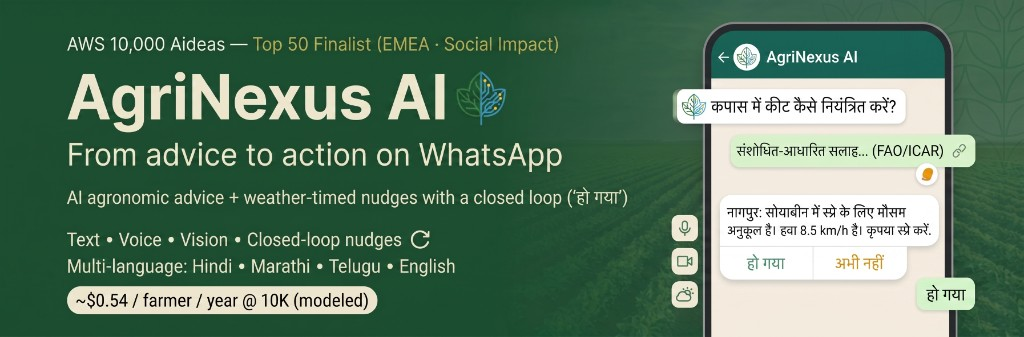
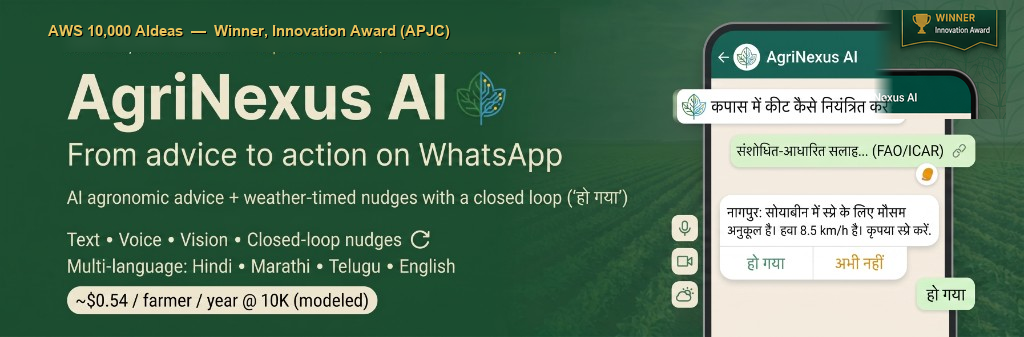
docs: update AWS AIdeas label to Winner, Innovation Award (APJC)
Replace the stale Top 50 Finalist (EMEA · Social Impact) README block and hero banners with the verified winner claim, selection funnel, and official winners links.

Changed region(s): [[0.8438, 0.0297, 1.0, 0.3561], [0.0312, 0.0593, 0.5625, 0.1484]]

diff --git a/README.md b/README.md
@@ -16,7 +16,9 @@
 
 ---
 
-> ### 🏆 AWS Builder 10,000 AIdeas — Top 50 Finalist (EMEA · Social Impact)
+> ### 🏆 AWS Builder 10,000 AIdeas — Winner, Innovation Award (APJC)
+> 
+> One of **20 winners** selected from thousands of submissions across **115 countries**, over four months (December 2025 – April 2026) and four evaluation rounds: 1,000 selected to build → 300 semi-finalists (community voting) → 50 finalists (AWS expert panel) → 20 winners (final community vote + expert review).
 > 
 > **For judges, reviewers, and fellow builders — three fastest paths in:**
 > 
@@ -24,7 +26,9 @@
 > | --- | --- | --- |
 > | 🎥 **Watch the demo** | [youtu.be/Hr9EcblzkwI](https://youtu.be/Hr9EcblzkwI) | 3 min |
 > | 💬 **Try on WhatsApp** | [wa.me/4915120105731](https://wa.me/4915120105731) | 1 min |
-> | 📖 **Read the finalist article** | [AWS Builder Center](https://builder.aws.com/content/3C8hBRTcsRuQrHzE3Pq243yhXTF/aideas-finalist-agrinexus-ai) | 5 min |
+> | 📖 **Read the winner build-log** | [AWS Builder Center](https://builder.aws.com/content/3G8IptNFPtMXozconKnfo6WerAl/aideas-winner-how-i-built-agrinexus-ais-closed-loop-nudge-engine-and-how-you-can-too) | 8 min |
+> | 📄 **Read the finalist article** | [AWS Builder Center](https://builder.aws.com/content/3C8hBRTcsRuQrHzE3Pq243yhXTF/aideas-finalist-agrinexus-ai) | 5 min |
+> | 🏅 **Official winners announcement** | [AWS Builder Center](https://builder.aws.com/content/3D5gTWIjP2zvKncBZBCs849xRqn/aws-10000-aideas-competition-meet-the-winners) | 2 min |
 > 
 > **TL;DR:** The closed-loop nudge engine is the core differentiator against named peers (Farmer.Chat, iSDA, AgriChat.AI, Weather Impact). Weather-gated reminders that follow up at T+24h and T+48h, cancelled instantly when the farmer confirms action. 100% serverless. ~$0.54/farmer/year at 10K scale.
 
@@ -41,7 +45,7 @@
 
 ## Contents
 
-- [🏆 Finalist Quickstart](#-aws-builder-10000-aideas--top-50-finalist-emea--social-impact)
+- [🏆 Winner Quickstart](#-aws-builder-10000-aideas--winner-innovation-award-apjc)
 - [Production Evidence](#production-evidence)
 - [Try It Yourself](#try-it-yourself)
 - [Architecture](#architecture)
